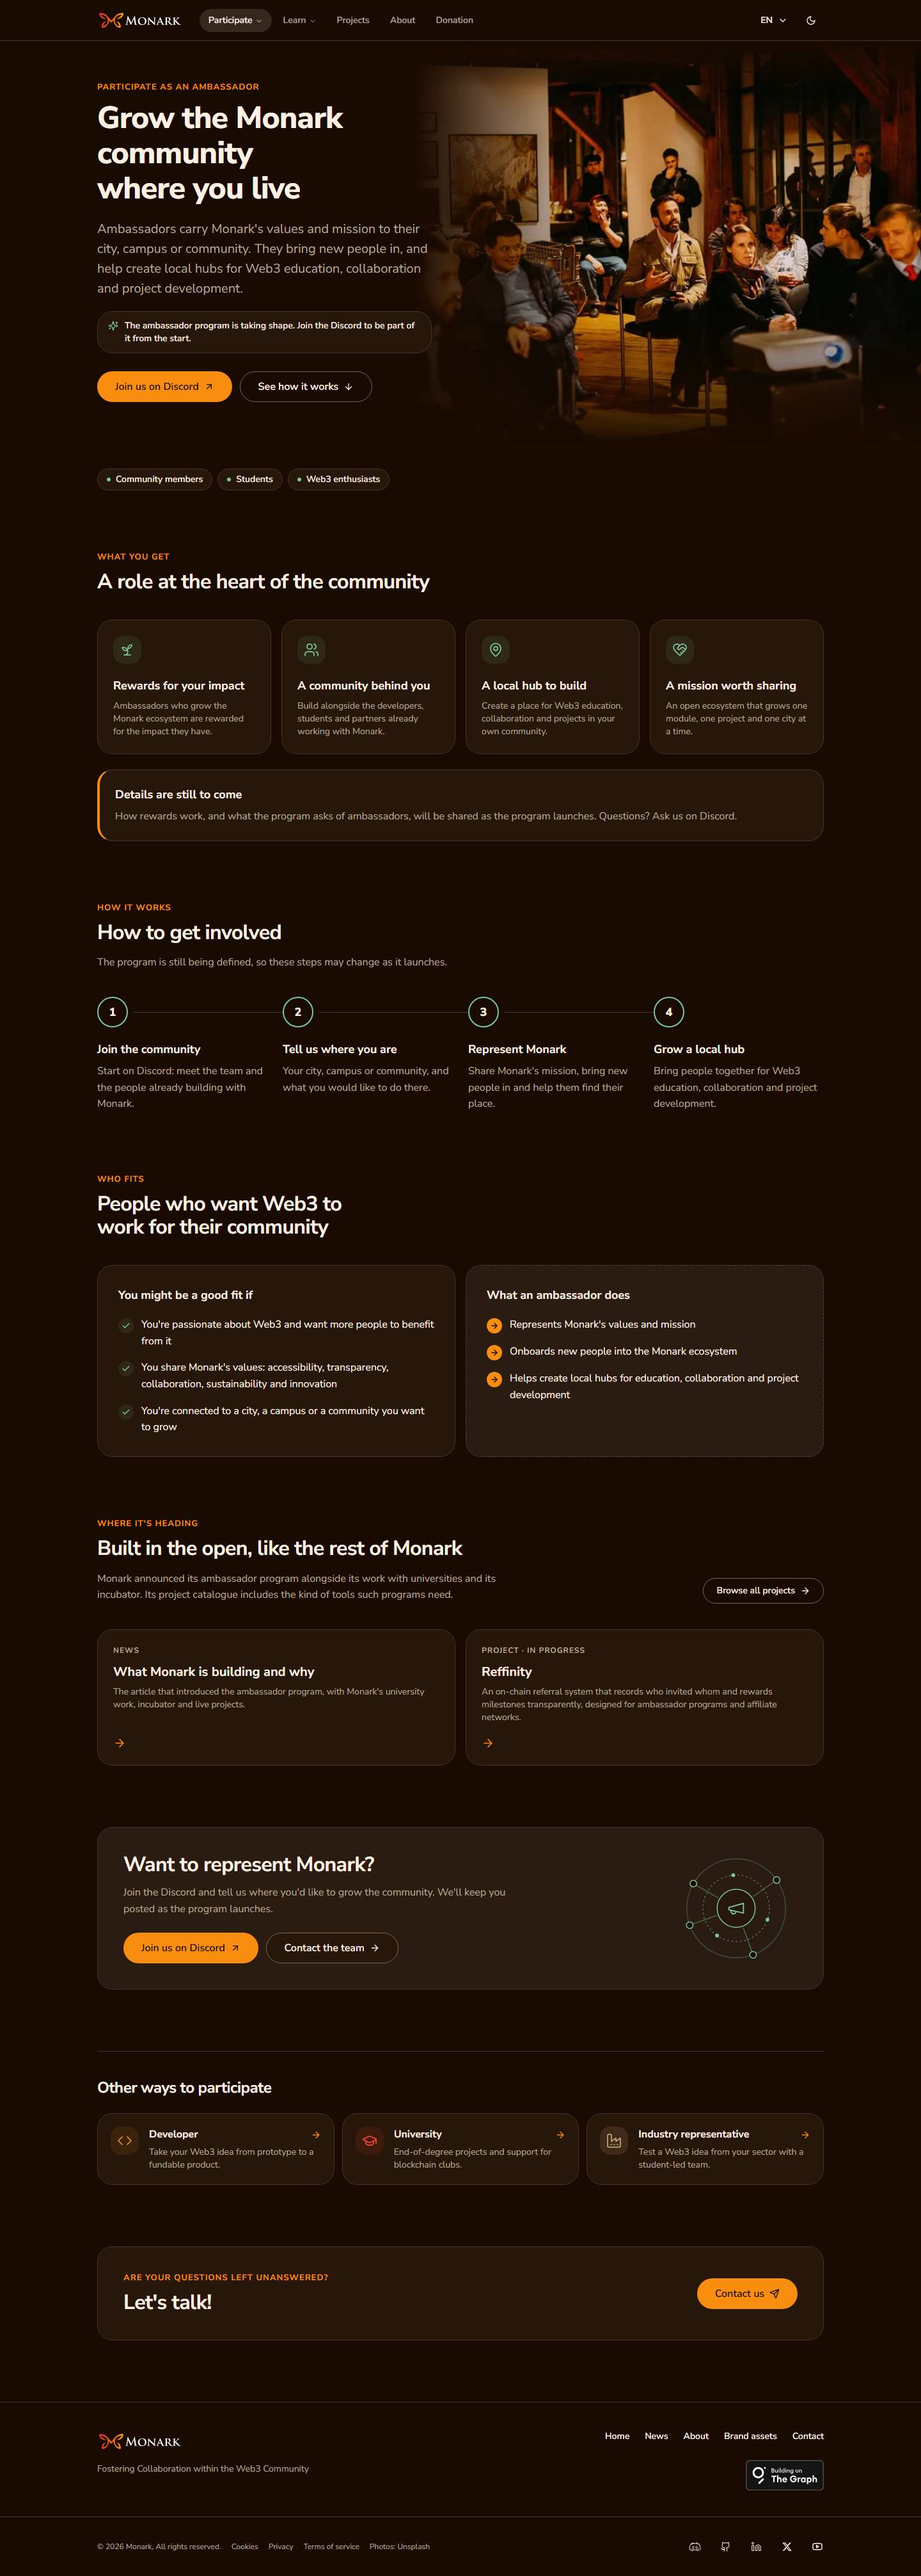
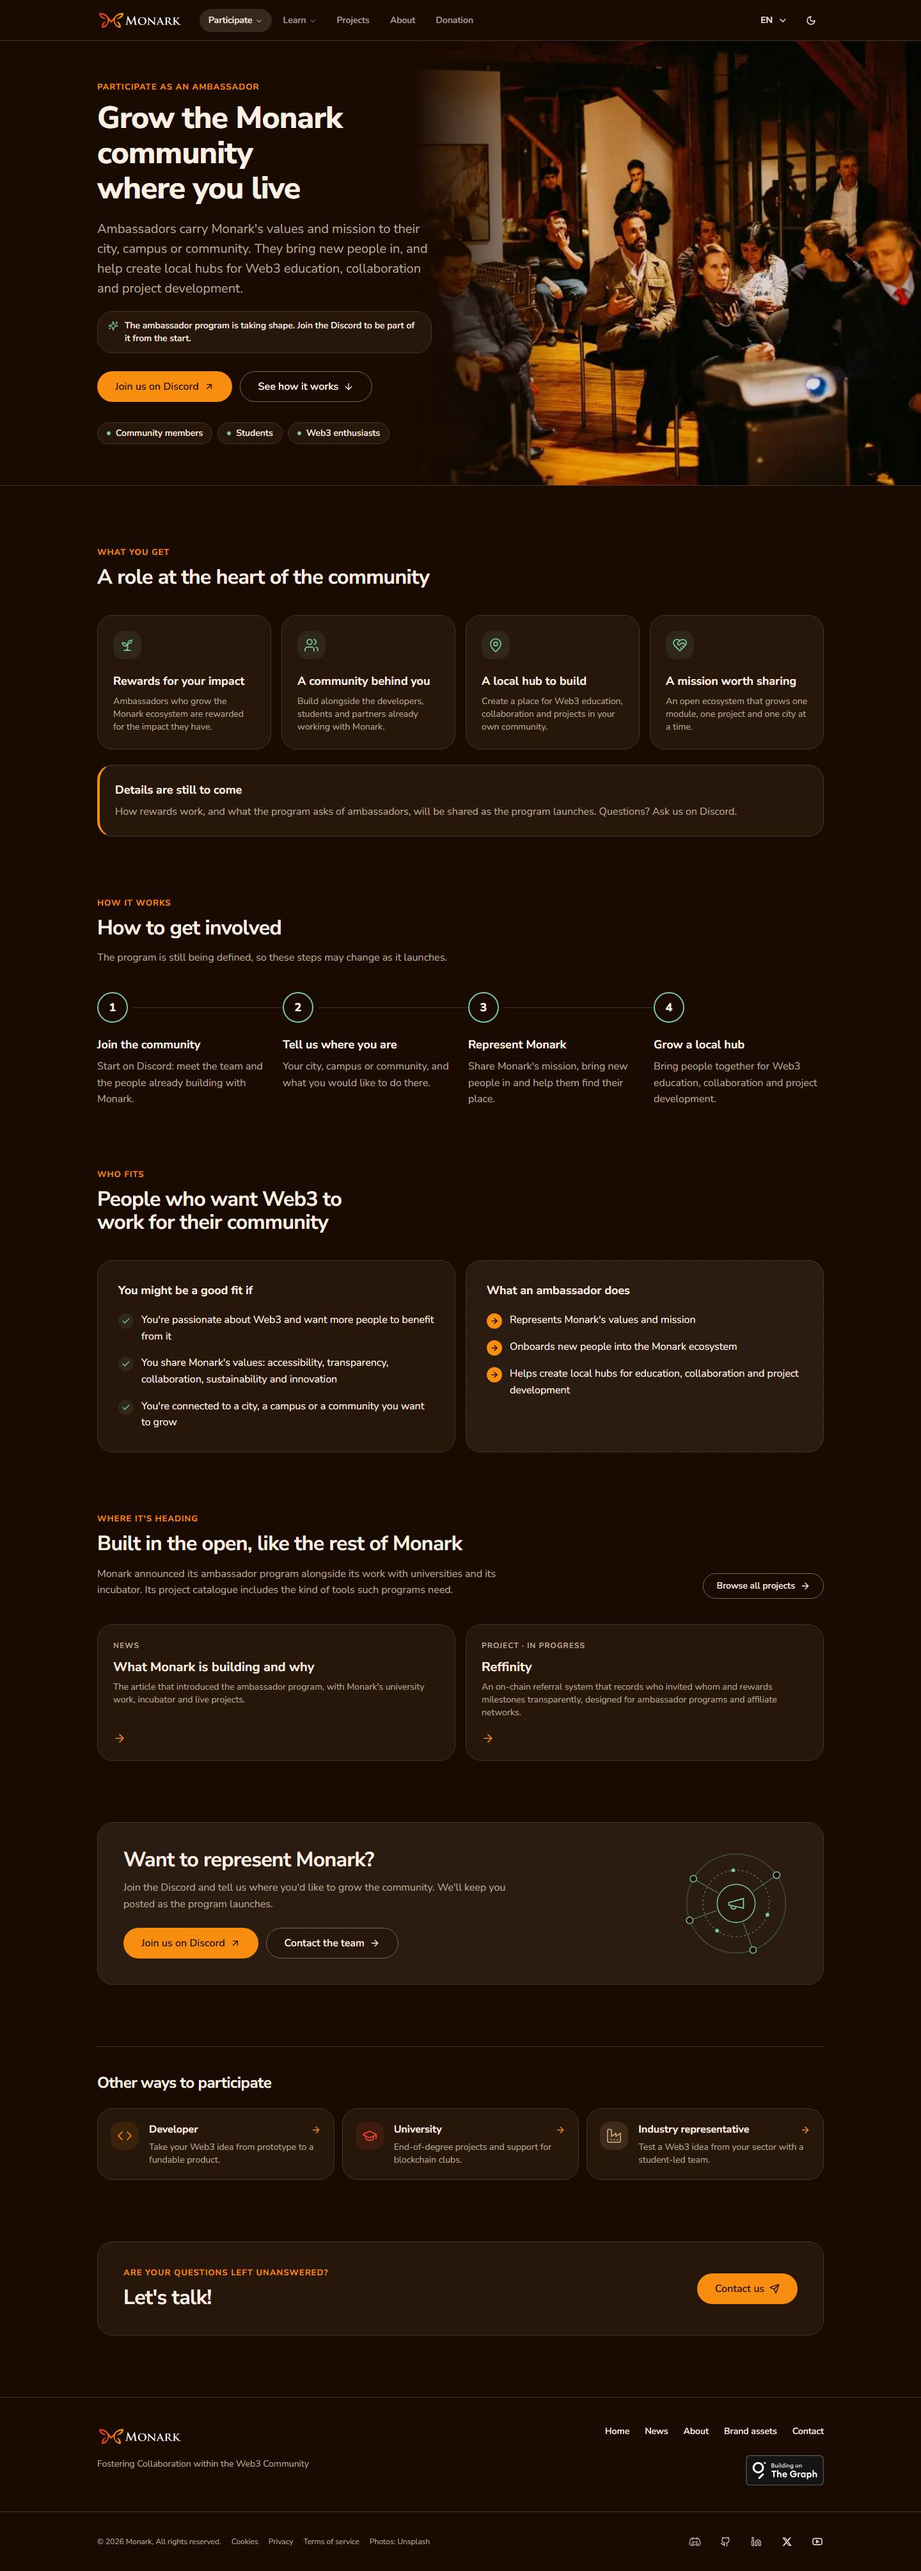
feat(participate): hard-edged hero photo with a left fade and a bottom border
Owner feedback: keep the big photo, drop the fade-out. The photo keeps
its size and place (right half, full hero height, to the viewport edge)
but now:

- fades in only on its left edge, from the text column (transparent to
  opaque over the first 30%); top, right and bottom are hard edges, and
  there is no fade on phones;
- sits flush on a full-width 1px bottom border that closes the hero.

The audience chips and key facts move into the text column so the hero
is one block; the facts become small figures with an accent rule. Focal
points for the university and ambassador photos move right to keep
faces clear of the fade.

Claude-Session: https://claude.ai/code/session_01At2SeqiTfzUbYRLANAdBLP

diff --git a/components/pages/participate/sections/participate-hero.component.tsx b/components/pages/participate/sections/participate-hero.component.tsx
@@ -25,69 +25,68 @@ type Props = {
 
 /**
  * Hero: who the page is for, a one-line promise (H1), the lead, the
- * audiences and a few key facts. The photo of the people the page is for
- * is part of the hero, not a card: full width on top on phones; from md it
- * fills the right half up to the viewport edge, for the hero's full
- * height. It fades into the page on the text side and at the bottom, and
- * the text column never reaches past the fade, so text always sits on the
- * plain background. Rendered full width (outside .site-container).
+ * actions, the audiences and a few key facts, with a large photo of the
+ * people the page is for. Phones: the photo runs edge to edge on top, text
+ * below. From md: the photo fills the right half of the hero, full height,
+ * up to the viewport edge, and fades in from the text column on its left
+ * (`.photo-fade`); its other edges are hard. The text column stops before
+ * the fade, so text always sits on the plain background. A full-width
+ * bottom border closes the hero; the photo sits flush on it. Rendered full
+ * width (outside .site-container).
  */
 function ParticipateHero({ t, primary, howLabel, newTab, accent, photo, locale }: Props) {
   return (
-    <section aria-labelledby="participate-title" className="relative isolate">
-      <div className="relative md:flex md:min-h-[32rem] md:items-center lg:min-h-[36rem]">
-        <FadedPhoto
-          photo={photo}
-          locale={locale}
-          priority
-          sizes="(min-width: 1024px) 55vw, (min-width: 768px) 50vw, 100vw"
-          className="-z-10 h-64 w-full sm:h-80 md:absolute md:inset-y-0 md:right-0 md:h-auto md:w-1/2 lg:w-[55%]"
-        />
-        <div className="site-container mt-2 md:mt-0 md:py-16">
-          <div className="min-w-0 md:max-w-[48%] lg:max-w-[46%]">
-            <p className="eyebrow">{t.eyebrow}</p>
-            <h1 id="participate-title" className="max-w-[40rem] text-balance">
-              {t.title}
-            </h1>
-            <p className="lead mt-5 max-w-[40rem]">{t.lead}</p>
-  
-            {t.status && (
-              <p className="mt-5 flex max-w-[40rem] items-start gap-2.5 rounded-2xl border bg-card px-4 py-3 text-sm font-semibold text-foreground">
-                <SparklesIcon
-                  aria-hidden="true"
-                  className={`mt-0.5 size-4 shrink-0 ${accentClasses[accent].text}`}
-                />
-                {t.status}
-              </p>
-            )}
-  
-            <div className="mt-7 flex flex-col gap-3 sm:flex-row sm:flex-wrap">
-              <ParticipateButton
-                link={primary}
-                newTab={newTab}
-                className="w-full sm:w-auto"
-              />
-              {/* A plain <a> styled as a button, not <Button asChild>: when the
-                  server streams this child as a lazy reference, Radix Slot
-                  receives a non-element and silently renders nothing. */}
-              <a
-                href="#participate-how"
-                className={cn(buttonVariants({ variant: "outline", size: "lg" }), "w-full sm:w-auto")}
-              >
-                {howLabel}
-                <ArrowDownIcon aria-hidden="true" />
-              </a>
-            </div>
-          </div>
-        </div>
-      </div>
+    <section
+      aria-labelledby="participate-title"
+      className="relative isolate border-b md:flex md:min-h-[34rem] md:items-center lg:min-h-[38rem]"
+    >
+      <FadedPhoto
+        photo={photo}
+        locale={locale}
+        priority
+        sizes="(min-width: 1024px) 55vw, (min-width: 768px) 50vw, 100vw"
+        className="-z-10 aspect-[16/10] w-full md:absolute md:inset-y-0 md:right-0 md:aspect-auto md:w-1/2 lg:w-[55%]"
+      />
+      <div className="site-container py-10 md:py-16">
+        <div className="min-w-0 md:max-w-[48%] lg:max-w-[46%]">
+          <p className="eyebrow">{t.eyebrow}</p>
+          <h1 id="participate-title" className="max-w-[40rem] text-balance">
+            {t.title}
+          </h1>
+          <p className="lead mt-5 max-w-[40rem]">{t.lead}</p>
 
-      <div className="site-container">
-        <div className="mt-10 flex flex-col gap-3 sm:flex-row sm:items-center sm:gap-4">
+          {t.status && (
+            <p className="mt-5 flex max-w-[40rem] items-start gap-2.5 rounded-2xl border bg-card px-4 py-3 text-sm font-semibold text-foreground">
+              <SparklesIcon
+                aria-hidden="true"
+                className={`mt-0.5 size-4 shrink-0 ${accentClasses[accent].text}`}
+              />
+              {t.status}
+            </p>
+          )}
+
+          <div className="mt-7 flex flex-col gap-3 sm:flex-row sm:flex-wrap">
+            <ParticipateButton
+              link={primary}
+              newTab={newTab}
+              className="w-full sm:w-auto"
+            />
+            {/* A plain <a> styled as a button, not <Button asChild>: when the
+                server streams this child as a lazy reference, Radix Slot
+                receives a non-element and silently renders nothing. */}
+            <a
+              href="#participate-how"
+              className={cn(buttonVariants({ variant: "outline", size: "lg" }), "w-full sm:w-auto")}
+            >
+              {howLabel}
+              <ArrowDownIcon aria-hidden="true" />
+            </a>
+          </div>
+
           <p id="participate-audiences" className="sr-only">
             {t.audiences_label}
           </p>
-          <ul aria-labelledby="participate-audiences" className="flex flex-wrap gap-2">
+          <ul aria-labelledby="participate-audiences" className="mt-8 flex flex-wrap gap-2">
             {t.audiences.map((audience) => (
               <li
                 key={audience}
@@ -101,20 +100,25 @@ function ParticipateHero({ t, primary, howLabel, newTab, accent, photo, locale }
               </li>
             ))}
           </ul>
-        </div>
 
-        {t.highlights && t.highlights.length > 0 && (
-          <dl className="mt-8 grid grid-cols-1 divide-y rounded-2xl border bg-card sm:grid-cols-3 sm:divide-x sm:divide-y-0">
-            {t.highlights.map((highlight) => (
-              <div key={highlight.value} className="flex flex-col-reverse gap-1 p-5">
-                <dt className="text-sm text-muted-foreground">{highlight.label}</dt>
-                <dd className="text-xl font-extrabold leading-tight tracking-[-0.01em] text-foreground">
-                  {highlight.value}
-                </dd>
-              </div>
-            ))}
-          </dl>
-        )}
+          {t.highlights && t.highlights.length > 0 && (
+            <dl className="mt-8 grid grid-cols-1 gap-x-6 gap-y-4 sm:grid-cols-3 md:grid-cols-1 lg:grid-cols-3">
+              {t.highlights.map((highlight) => (
+                // Accent rule on the left: border-current takes the accent
+                // colour; dt and dd set their own text colours.
+                <div
+                  key={highlight.value}
+                  className={`flex flex-col-reverse gap-0.5 border-l-2 border-current pl-3.5 ${accentClasses[accent].text}`}
+                >
+                  <dt className="text-sm text-muted-foreground">{highlight.label}</dt>
+                  <dd className="text-lg font-extrabold leading-tight tracking-[-0.01em] text-foreground">
+                    {highlight.value}
+                  </dd>
+                </div>
+              ))}
+            </dl>
+          )}
+        </div>
       </div>
     </section>
   );

diff --git a/app/globals.scss b/app/globals.scss
@@ -93,27 +93,15 @@ body {
   }
 
   /*
-   * Hero photo that melts into the page: an alpha mask (not a coloured
-   * overlay), so the fade reveals the real surface behind it in both
-   * themes. Phones: fades out at the bottom, above the text. From md: fades
-   * out towards the text on the left, at the bottom and a little under the
-   * header.
+   * Hero photo beside text (from md): a horizontal alpha mask fades its
+   * left edge in from the text column; top, right and bottom stay hard
+   * edges. A mask, not a coloured overlay, so it reveals the real surface
+   * in both themes. Phones show the photo whole, edge to edge, no fade.
    */
-  .photo-fade {
-    -webkit-mask-image: linear-gradient(to bottom, #000 45%, transparent 98%);
-    mask-image: linear-gradient(to bottom, #000 45%, transparent 98%);
-  }
-
   @media (min-width: 768px) {
     .photo-fade {
-      -webkit-mask-image:
-        linear-gradient(to right, transparent 0%, #000 34%),
-        linear-gradient(to bottom, transparent 0%, #000 12%, #000 66%, transparent 100%);
-      -webkit-mask-composite: source-in;
-      mask-image:
-        linear-gradient(to right, transparent 0%, #000 34%),
-        linear-gradient(to bottom, transparent 0%, #000 12%, #000 66%, transparent 100%);
-      mask-composite: intersect;
+      -webkit-mask-image: linear-gradient(to right, transparent 0%, #000 30%);
+      mask-image: linear-gradient(to right, transparent 0%, #000 30%);
     }
   }
 

diff --git a/components/common/photo/photos.ts b/components/common/photo/photos.ts
@@ -38,7 +38,7 @@ export type PhotoEntry = {
 
 export const photos: Record<PhotoKey, PhotoEntry> = {
   "students-lecture-hall": {
-    focus: "88% 45%",
+    focus: "100% 45%",
     src: studentsLectureHall,
     alt: {
       en: "Students talking and laughing at their desks in a university lecture hall",
@@ -54,7 +54,7 @@ export const photos: Record<PhotoKey, PhotoEntry> = {
     },
   },
   "community-meetup-discussion": {
-    focus: "62% 50%",
+    focus: "80% 50%",
     src: communityMeetupDiscussion,
     alt: {
       en: "A participant asks a question during an evening community meetup",

diff --git a/components/common/photo/faded-photo.tsx b/components/common/photo/faded-photo.tsx
@@ -16,8 +16,9 @@ type Props = {
 
 /**
  * A photo that is part of a hero rather than a framed card: no border or
- * radius, and an alpha mask (`.photo-fade`) that fades it into whatever
- * surface is behind it. The crop follows the photo's focal point from the
+ * radius. From md an alpha mask (`.photo-fade`) fades its left edge in
+ * from whatever surface is behind it; the other edges stay hard. The crop
+ * follows the photo's focal point from the
  * registry. In dark mode it is dimmed a touch so it sits on espresso
  * without glare, but not so much that it turns muddy.
  */

diff --git a/docs/redesign-2026/README.md b/docs/redesign-2026/README.md
@@ -51,8 +51,9 @@ Headings and UI strings are in sentence case in English; the French strings alre
 
 **Photography.** There are now seven photos of real people working together, all free Unsplash License images (sources in [`docs/assets.md`](../assets.md)). Each photo takes the place of decoration and adds no text.
 - Each participate page opens with a photo of the people it is for, in place of the hero line art: students in a lecture hall, two developers pairing at a workshop, a community meetup, and a small business team.
-  - The photo is part of the hero, not a framed card. From md it fills the right half (55% on large screens), for the hero's full height, up to the viewport edge. On phones it runs edge to edge at the top.
-  - It fades into the page through a CSS alpha mask (`.photo-fade` in `globals.scss`), not a coloured overlay, so it melts into cream or espresso alike. The fade runs on the text side and at the bottom, with a short fade under the header.
+  - The photo is part of the hero, not a framed card. From md it fills the right half (55% on large screens), for the hero's full height, up to the viewport edge. On phones it runs edge to edge at the top, uncropped by any fade.
+  - The only fade is on its left edge, where it meets the text column. It is a CSS alpha mask (`.photo-fade` in `globals.scss`) that goes from transparent to opaque over the first 30% of the photo, so it works on cream and espresso alike. Its top, right and bottom edges are hard.
+  - A full-width 1px bottom border closes the hero, and the photo sits flush on it. The audience chips and the key facts (now small figures with an accent rule) moved into the text column, so the hero is one block.
   - The text column stops before the fade, so text always sits on the plain background. A focal point per photo (`focus` in `photos.ts`) keeps faces clear of the fade.
   - For this, the hero renders outside `.site-container`: `participate/layout.tsx` is now a plain wrapper, and `ParticipatePage` puts the other sections in the container.
   - Participate buttons are now styled anchors instead of `<Button asChild>`. When the server streamed a child as a lazy reference, Radix Slot rendered nothing, and the hero lost its "See how it works" link on two pages.

diff --git a/docs/assets.md b/docs/assets.md
@@ -6,7 +6,7 @@ All photos come from Unsplash under the free [Unsplash License](https://unsplash
 
 The files were downloaded through Unsplash's download endpoint, resized to at most 1600px wide and saved as JPEG at quality 80. Two small edits were made: a laptop maker's logo was blurred in `friends-talking-cafe.jpg` and `builders-at-work-table.jpg`, and `developers-pairing-workshop.jpg` was cropped to 4:3 around the two people in front, leaving out the event banner and a sponsor logo on a laptop.
 
-The code reads the photos from one registry, `components/common/photo/photos.ts`, which also holds the English and French alt text. Framed photos are rendered by `components/common/photo/photo.tsx`. The participate heroes use `faded-photo.tsx`, which has no frame and fades into the page with a mask; it crops to each photo's `focus` point.
+The code reads the photos from one registry, `components/common/photo/photos.ts`, which also holds the English and French alt text. Framed photos are rendered by `components/common/photo/photo.tsx`. The participate heroes use `faded-photo.tsx`, which has no frame and fades in on its left edge through a mask; it crops to each photo's `focus` point.
 
 | File | Photo | Photographer | Used on |
 | --- | --- | --- | --- |
